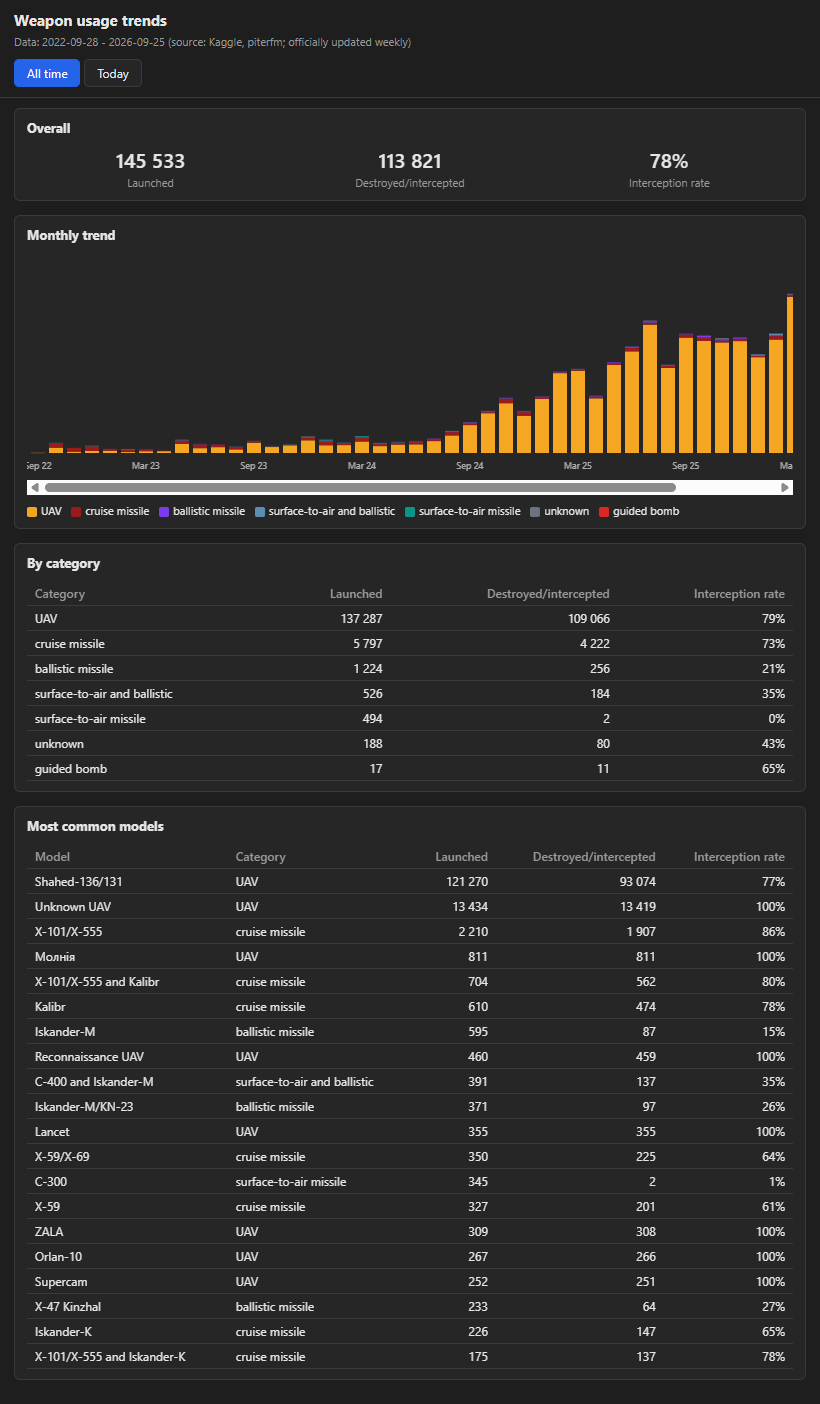
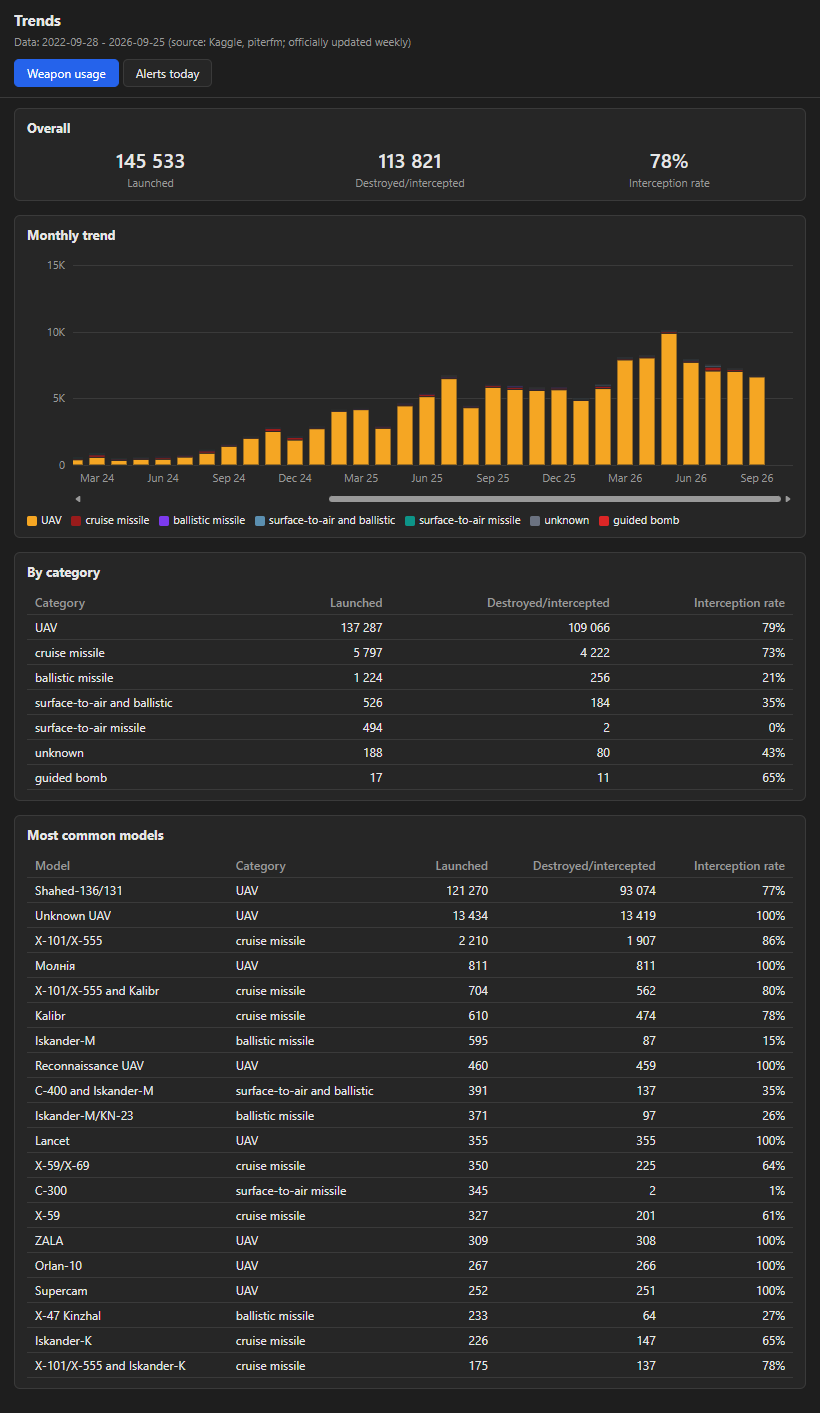
Trends: clearer tabs, readable charts, newest months first, count column

diff --git a/electron-app/src/renderer/trends/index.js b/electron-app/src/renderer/trends/index.js
@@ -67,7 +67,8 @@ function formatPercent(numerator, denominator) {
 function monthLabel(month, isEnglish) {
     const [year, m] = month.split('-');
     const date = new Date(Date.UTC(Number(year), Number(m) - 1, 1));
-    return date.toLocaleDateString(isEnglish ? 'en-US' : 'uk-UA', { month: 'short', year: '2-digit', timeZone: 'UTC' });
+    const name = date.toLocaleDateString(isEnglish ? 'en-US' : 'uk-UA', { month: 'short', timeZone: 'UTC' }).replace(/\.$/, '');
+    return `${name} ${year.slice(2)}`;
 }
 
 function buildSummaryCard(stats, strings) {
@@ -126,6 +127,52 @@ function buildCategoryCard(stats, strings, isEnglish) {
     return card;
 }
 
+const CHART = { top: 12, bottom: 26, axisWidth: 46, barWidth: 16, gap: 6, pad: 8, padEnd: 28 };
+
+function niceScale(maxValue, tickCount = 4) {
+    const rawStep = Math.max(1, maxValue) / tickCount;
+    const magnitude = 10 ** Math.floor(Math.log10(rawStep));
+    const normalized = rawStep / magnitude;
+    const step = (normalized <= 1 ? 1 : normalized <= 2 ? 2 : normalized <= 5 ? 5 : 10) * magnitude;
+    const max = Math.ceil(maxValue / step) * step;
+    const ticks = [];
+    for (let value = 0; value <= max; value += step) ticks.push(value);
+    return { max, ticks };
+}
+
+function compactNumber(value, isEnglish) {
+    return new Intl.NumberFormat(isEnglish ? 'en-US' : 'uk-UA', { notation: 'compact', maximumFractionDigits: 1 }).format(value);
+}
+
+function escapeHtml(text) {
+    return String(text).replace(/&/g, '&amp;').replace(/</g, '&lt;').replace(/>/g, '&gt;').replace(/"/g, '&quot;');
+}
+
+function buildChartFrame({ scale, plotHeight, plotWidth, isEnglish, scrollToEnd, draw }) {
+    const totalHeight = CHART.top + plotHeight + CHART.bottom;
+    const y = (value) => CHART.top + plotHeight - (value / scale.max) * plotHeight;
+    const crisp = (value) => Math.round(value) + 0.5;
+
+    const grid = scale.ticks
+        .map((tick) => `<line class="chart-grid" x1="0" x2="${plotWidth}" y1="${crisp(y(tick))}" y2="${crisp(y(tick))}"/>`)
+        .join('');
+    const axisLabels = scale.ticks
+        .map((tick) => `<text class="chart-label" x="${CHART.axisWidth - 8}" y="${y(tick) + 4}" text-anchor="end">${compactNumber(tick, isEnglish)}</text>`)
+        .join('');
+
+    const frame = document.createElement('div');
+    frame.className = 'chart-frame';
+    frame.innerHTML = `<svg class="chart-axis" width="${CHART.axisWidth}" height="${totalHeight}" viewBox="0 0 ${CHART.axisWidth} ${totalHeight}">${axisLabels}</svg><div class="chart-scroll"><svg width="${plotWidth}" height="${totalHeight}" viewBox="0 0 ${plotWidth} ${totalHeight}">${grid}${draw(y)}</svg></div>`;
+
+    if (scrollToEnd) {
+        requestAnimationFrame(() => {
+            const scroller = frame.querySelector('.chart-scroll');
+            scroller.scrollLeft = scroller.scrollWidth;
+        });
+    }
+    return frame;
+}
+
 function buildMonthlyChart(stats, strings, isEnglish) {
     const card = document.createElement('section');
     card.className = 'card';
@@ -135,38 +182,51 @@ function buildMonthlyChart(stats, strings, isEnglish) {
 
     const months = stats.monthly;
     const categories = stats.byCategory.map((c) => c.category);
-    const maxLaunched = Math.max(1, ...months.map((m) => m.launched));
+    const scale = niceScale(Math.max(1, ...months.map((m) => m.launched)));
+    const step = CHART.barWidth + CHART.gap;
+    const plotWidth = CHART.pad + CHART.padEnd + months.length * step - CHART.gap;
+    const plotHeight = 200;
 
-    const barWidth = 14;
-    const gap = 4;
-    const chartHeight = 200;
-    const width = months.length * (barWidth + gap) + gap;
-    const height = chartHeight + 24;
+    const frame = buildChartFrame({
+        scale,
+        plotHeight,
+        plotWidth,
+        isEnglish,
+        scrollToEnd: true,
+        draw: (y) => {
+            const parts = [];
+            months.forEach((entry, index) => {
+                const x = CHART.pad + index * step;
+                let cumulative = 0;
+                const lines = [];
 
-    const svgParts = [];
-    months.forEach((entry, index) => {
-        const x = gap + index * (barWidth + gap);
-        let yCursor = chartHeight;
-        categories.forEach((category) => {
-            const value = entry.categories[category] || 0;
-            if (!value) return;
-            const barHeight = (value / maxLaunched) * chartHeight;
-            yCursor -= barHeight;
-            svgParts.push(
-                `<rect x="${x}" y="${yCursor.toFixed(1)}" width="${barWidth}" height="${barHeight.toFixed(1)}" fill="${categoryColor(category)}"><title>${monthLabel(entry.month, isEnglish)}: ${categoryName(category, isEnglish)} - ${formatNumber(value)}</title></rect>`
-            );
-        });
-        if (index % 6 === 0) {
-            svgParts.push(
-                `<text x="${x + barWidth / 2}" y="${chartHeight + 16}" font-size="9" text-anchor="middle" fill="currentColor" opacity="0.7">${monthLabel(entry.month, isEnglish)}</text>`
-            );
-        }
+                categories.forEach((category) => {
+                    const value = entry.categories[category] || 0;
+                    if (!value) return;
+                    const top = y(cumulative + value);
+                    const bottom = y(cumulative);
+                    parts.push(
+                        `<rect class="chart-seg" x="${x}" y="${top.toFixed(1)}" width="${CHART.barWidth}" height="${(bottom - top).toFixed(1)}" fill="${categoryColor(category)}"/>`
+                    );
+                    cumulative += value;
+                    lines.push(`${categoryName(category, isEnglish)}: ${formatNumber(value)}`);
+                });
+
+                const title = escapeHtml(`${monthLabel(entry.month, isEnglish)} - ${formatNumber(entry.launched)}\n${lines.join('\n')}`);
+                parts.push(
+                    `<rect class="chart-hit" x="${x - CHART.gap / 2}" y="${CHART.top}" width="${step}" height="${plotHeight}"><title>${title}</title></rect>`
+                );
+
+                if ((months.length - 1 - index) % 3 === 0) {
+                    parts.push(
+                        `<text class="chart-label" x="${x + CHART.barWidth / 2}" y="${CHART.top + plotHeight + 17}" text-anchor="middle">${monthLabel(entry.month, isEnglish)}</text>`
+                    );
+                }
+            });
+            return parts.join('');
+        },
     });
-
-    const wrapper = document.createElement('div');
-    wrapper.className = 'chart-scroll';
-    wrapper.innerHTML = `<svg viewBox="0 0 ${width} ${height}" width="${width}" height="${height}" style="color:var(--fg)">${svgParts.join('')}</svg>`;
-    card.appendChild(wrapper);
+    card.appendChild(frame);
 
     const legend = document.createElement('div');
     legend.className = 'chart-legend';
@@ -229,38 +289,51 @@ function buildTodayAlertsCard(total, strings) {
     return card;
 }
 
-function buildHourlyChart(byHour, strings) {
+function buildHourlyChart(byHour, strings, isEnglish) {
     const card = document.createElement('section');
     card.className = 'card';
     const h2 = document.createElement('h2');
     h2.textContent = strings.trendsTodayByHourTitle;
     card.appendChild(h2);
 
-    const barWidth = 18;
-    const gap = 4;
-    const chartHeight = 120;
-    const width = 24 * (barWidth + gap) + gap;
-    const height = chartHeight + 20;
-    const maxCount = Math.max(1, ...byHour);
+    const scale = niceScale(Math.max(1, ...byHour));
+    const barWidth = 20;
+    const gap = 8;
+    const step = barWidth + gap;
+    const plotWidth = CHART.pad * 2 + 24 * step - gap;
+    const plotHeight = 130;
 
-    const svgParts = [];
-    byHour.forEach((count, hour) => {
-        const x = gap + hour * (barWidth + gap);
-        const barHeight = (count / maxCount) * chartHeight;
-        svgParts.push(
-            `<rect x="${x}" y="${(chartHeight - barHeight).toFixed(1)}" width="${barWidth}" height="${barHeight.toFixed(1)}" fill="#2563eb"><title>${hour}:00 - ${count}</title></rect>`
-        );
-        if (hour % 3 === 0) {
-            svgParts.push(
-                `<text x="${x + barWidth / 2}" y="${chartHeight + 14}" font-size="9" text-anchor="middle" fill="currentColor" opacity="0.7">${hour}</text>`
-            );
-        }
-    });
-
-    const wrapper = document.createElement('div');
-    wrapper.className = 'chart-scroll';
-    wrapper.innerHTML = `<svg viewBox="0 0 ${width} ${height}" width="${width}" height="${height}" style="color:var(--fg)">${svgParts.join('')}</svg>`;
-    card.appendChild(wrapper);
+    card.appendChild(
+        buildChartFrame({
+            scale,
+            plotHeight,
+            plotWidth,
+            isEnglish,
+            scrollToEnd: false,
+            draw: (y) => {
+                const parts = [];
+                byHour.forEach((count, hour) => {
+                    const x = CHART.pad + hour * step;
+                    const label = String(hour).padStart(2, '0');
+                    if (count) {
+                        const top = y(count);
+                        parts.push(
+                            `<rect class="chart-seg" x="${x}" y="${top.toFixed(1)}" width="${barWidth}" height="${(y(0) - top).toFixed(1)}" fill="#2563eb"/>`
+                        );
+                    }
+                    parts.push(
+                        `<rect class="chart-hit" x="${x - gap / 2}" y="${CHART.top}" width="${step}" height="${plotHeight}"><title>${label}:00 - ${formatNumber(count)}</title></rect>`
+                    );
+                    if (hour % 3 === 0) {
+                        parts.push(
+                            `<text class="chart-label" x="${x + barWidth / 2}" y="${CHART.top + plotHeight + 17}" text-anchor="middle">${label}</text>`
+                        );
+                    }
+                });
+                return parts.join('');
+            },
+        })
+    );
     return card;
 }
 
@@ -280,7 +353,7 @@ function buildCountTable(entries, titleKey, columnKey, strings, emptyKey) {
     }
 
     const table = document.createElement('table');
-    table.innerHTML = `<thead><tr><th>${strings[columnKey]}</th><th class="numeric">${strings.trendsTodayAlertsLabel}</th></tr></thead>`;
+    table.innerHTML = `<thead><tr><th>${strings[columnKey]}</th><th class="numeric">${strings.trendsTodayCountColumn}</th></tr></thead>`;
     const tbody = document.createElement('tbody');
     entries.forEach(({ label, count }) => {
         const tr = document.createElement('tr');
@@ -336,12 +409,11 @@ async function main() {
     const stats = await window.alertServerTrends.getWeaponStats().catch(() => null);
     const todayStats = await window.alertServerTrends.getTodayStats().catch(() => null);
 
-    if (stats) {
-        const rangeText = strings.trendsRangeLabel
-            .replace('{from}', stats.dateRange.from)
-            .replace('{to}', stats.dateRange.to);
-        document.getElementById('trendsRange').textContent = rangeText;
-    }
+    const rangeElement = document.getElementById('trendsRange');
+    const rangeText = stats
+        ? strings.trendsRangeLabel.replace('{from}', stats.dateRange.from).replace('{to}', stats.dateRange.to)
+        : '';
+    rangeElement.textContent = rangeText;
 
     function renderAllTime() {
         content.innerHTML = '';
@@ -378,7 +450,7 @@ async function main() {
             : statusText;
         content.appendChild(notice);
         content.appendChild(buildTodayAlertsCard(todayStats.total, strings));
-        content.appendChild(buildHourlyChart(todayStats.byHour, strings));
+        content.appendChild(buildHourlyChart(todayStats.byHour, strings, isEnglish));
         content.appendChild(
             buildCountTable(
                 todayStats.byOblast.map((e) => ({ label: displayOblastName(e.oblast, isEnglish), count: e.count })),
@@ -401,7 +473,13 @@ async function main() {
 
     document
         .getElementById('tabsHost')
-        .replaceWith(buildTabs(strings, (key) => (key === 'today' ? renderToday() : renderAllTime())));
+        .replaceWith(
+            buildTabs(strings, (key) => {
+                rangeElement.textContent = key === 'today' ? '' : rangeText;
+                if (key === 'today') renderToday();
+                else renderAllTime();
+            })
+        );
 
     renderAllTime();
 }

diff --git a/electron-app/src/renderer/trends/index.css b/electron-app/src/renderer/trends/index.css
@@ -42,6 +42,10 @@ header h1 {
     margin: 0;
 }
 
+#trendsRange:empty {
+    display: none;
+}
+
 #trendsRange {
     margin: 4px 0 0;
     font-size: 11px;
@@ -89,8 +93,46 @@ main {
     margin-top: 2px;
 }
 
+.chart-frame {
+    display: flex;
+    align-items: flex-start;
+}
+
+.chart-axis {
+    flex: 0 0 auto;
+}
+
 .chart-scroll {
+    flex: 1 1 auto;
+    min-width: 0;
     overflow-x: auto;
+    scrollbar-width: thin;
+    scrollbar-color: var(--muted) transparent;
+}
+
+.chart-grid {
+    stroke: var(--border);
+    stroke-width: 1;
+    shape-rendering: crispEdges;
+}
+
+.chart-label {
+    fill: var(--muted);
+    font-size: 11px;
+    font-variant-numeric: tabular-nums;
+}
+
+.chart-seg {
+    stroke: var(--card-bg);
+    stroke-width: 0.75;
+}
+
+.chart-hit {
+    fill: transparent;
+}
+
+.chart-hit:hover {
+    fill: rgba(127, 127, 127, 0.14);
 }
 
 .chart-legend {

diff --git a/README-UA.md b/README-UA.md
@@ -67,7 +67,7 @@
   Якщо сам Київ обраний для відстеження, його райони отримують такі самі сповіщення, як і будь-який інший регіон моніторингу - по одному на щойно зачеплений район, або одне зведене, якщо одночасно починається чи завершується три й більше - а якщо ввімкнено відкриття live-мапи при тривозі, вона одразу відкривається саме в цьому вигляді Києва, а не в загальноукраїнському.
 
 - **Прогноз** відкриває вікно, де для кожного регіону моніторингу показано або - якщо в регіоні зараз активна тривога - скільки вона вже триває плюс середню тривалість цього типу тривоги (за останню добу і за весь період спостережень; прогноз ймовірності/часу нижче на цей момент не діє, про що прямо й написано), або, коли активних тривог немає, статистика (кількість тривог, середній інтервал, найчастіший час і день тижня, час з моменту завершення останньої тривоги), а для кожного типу тривоги - ймовірність (протягом найближчих кількох годин, свідомо не "сьогодні" - за повну добу число стрімко впирається в беззмістовне "приблизно 100%" для будь-якого регіону з інтенсивністю вище кількох тривог на добу, а це зараз типово), очікувана кількість тривог за добу, і орієнтовний час до наступної - у верхньому рядку зазначено джерело даних. Детальний опис методології - у [описі моделі прогнозування](docs/forecast-methodology-uk.md): як рахується оцінка, що означають числа, які відомі обмеження підходу - і, як і раніше, це явно позначено як статистику, а не гарантований прогноз. Картки сортуються за тим, наскільки скоро очікується тривога, активні регіони - завжди зверху; якщо відстежується і ціла область, і один з її районів, у списку показується лише область (вона й так агрегує всю статистику). Кожен прогноз можна скопіювати в буфер обміну. Нижче списку - примітка про історичний датасет, яким відкалібровано довгостроковий базовий рівень моделі. Прогноз рахується на сервері проєкту з його архіву тривог (до приблизно 2 років історії), тож свіжа інсталяція отримує такий самий прогноз, як і та, що працює місяцями.
-- **Тенденції** відкриває вікно із двома вкладками. **За весь період** - загальнонаціональна статистика застосування зброї, зібрана з публічного датасету (див. [Джерела даних та атрибуції](#джерела-даних-та-атрибуції)): підсумки й відсоток збиття, графік по місяцях у розрізі категорій зброї, таблиці за категорією та за конкретною моделлю. **Сьогодні** - кількість тривог по Україні з опівночі, графік по годинах доби, розбивка по областях і окремо по ваших регіонах моніторингу - обчислено на сервері проєкту з його архіву тривог, тож дані вірні навіть одразу після першого за день відкриття застосунку (з невеликою приміткою, якщо сервер після перезапуску ще донаповнює історію).
+- **Тенденції** відкриває вікно із двома вкладками. **Застосування зброї** - загальнонаціональна статистика застосування зброї, зібрана з публічного датасету (див. [Джерела даних та атрибуції](#джерела-даних-та-атрибуції)): підсумки й відсоток збиття, графік по місяцях у розрізі категорій зброї (відкривається на останніх місяцях, старіші - гортанням ліворуч), таблиці за категорією та за конкретною моделлю. **Тривоги сьогодні** - кількість тривог по Україні з опівночі, графік по годинах доби, розбивка по областях і окремо по ваших регіонах моніторингу - обчислено на сервері проєкту з його архіву тривог, тож дані вірні навіть одразу після першого за день відкриття застосунку (з невеликою приміткою, якщо сервер після перезапуску ще донаповнює історію).
 
   <picture>
     <source media="(prefers-color-scheme: dark)" srcset="docs/images/trends-uk-dark.png">

diff --git a/README.md b/README.md
@@ -67,7 +67,7 @@ On first launch the app appears as a tray icon only, no window. The icon itself 
   When Kyiv itself is one of your monitored regions, its districts get the same alert notifications as any other tracked region - one per newly affected district, or a single consolidated notification if three or more start or clear together - and, if the live map is set to open on alert, it opens straight into this Kyiv view instead of the nationwide one.
 
 - **Forecast** opens a window showing, for each monitored region, either how long an alert currently active there has already been running plus that alert type's average duration (over the last 24 hours and over the whole observed history) - the probability/ETA forecast below doesn't apply while one is already in progress, and says so - or, when nothing is active, historical statistics (alert count, average interval, most common time and day of week, time since the last alert ended) plus, for each alert type, a probability (within the next couple of hours, deliberately not "today" - a full day saturates to a meaningless "approximately 100%" for any region much above a handful of alerts a day, which the current pace of the war makes common), the number of alerts expected for the day, and an ETA - the top line names the data source. See [forecast methodology](docs/forecast-methodology-en.md) for how this is calculated, what the numbers mean, and known limitations of the approach - still clearly labeled as statistics, not a guaranteed prediction. Cards are sorted by how soon an alert is expected, with active regions first; if a whole region and one of its districts are both tracked, only the region's (already-aggregated) card is shown. Each region's summary can be copied to the clipboard. The forecast is computed on the project's server from its alert archive (up to about 2 years of history), so a fresh install gets the same forecast as one that has been running for months. Below the list, a note describes the historical dataset used to calibrate the model's long-horizon baseline.
-- **Trends** opens a window with two tabs. **All time** compiles nationwide weapon-usage statistics from a public dataset (see [Data sources & credits](#data-sources--credits)): totals and interception rate, a monthly chart broken down by weapon category, and tables by category and by specific model. **Today** shows today's nationwide alert total since midnight, a chart by hour of day, and breakdowns by oblast and by your own monitored regions specifically - computed on the project's server from its alert archive, so it's accurate even right after opening the app for the first time that day (with a small note if the server is still filling in history after a restart).
+- **Trends** opens a window with two tabs. **Weapon usage** compiles nationwide weapon-usage statistics from a public dataset (see [Data sources & credits](#data-sources--credits)): totals and interception rate, a monthly chart broken down by weapon category (it opens on the most recent months, scroll left for older ones), and tables by category and by specific model. **Alerts today** shows the nationwide alert total since midnight, a chart by hour of day, and breakdowns by oblast and by your own monitored regions specifically - computed on the project's server from its alert archive, so it's accurate even right after opening the app for the first time that day (with a small note if the server is still filling in history after a restart).
 
   <picture>
     <source media="(prefers-color-scheme: dark)" srcset="docs/images/trends-en-dark.png">
